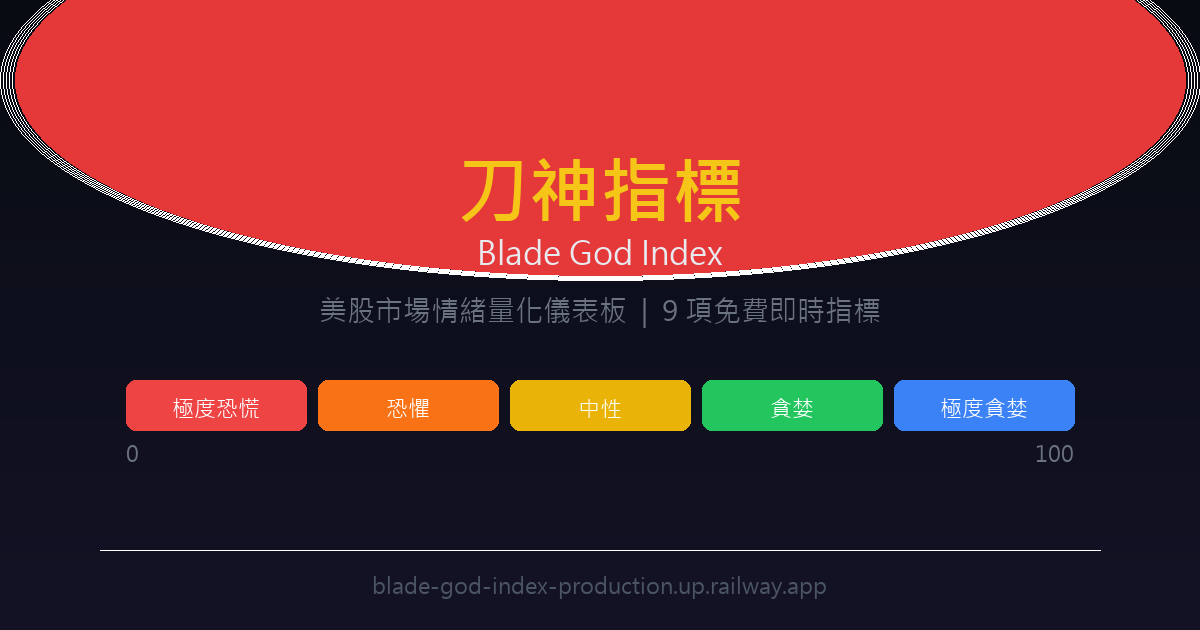
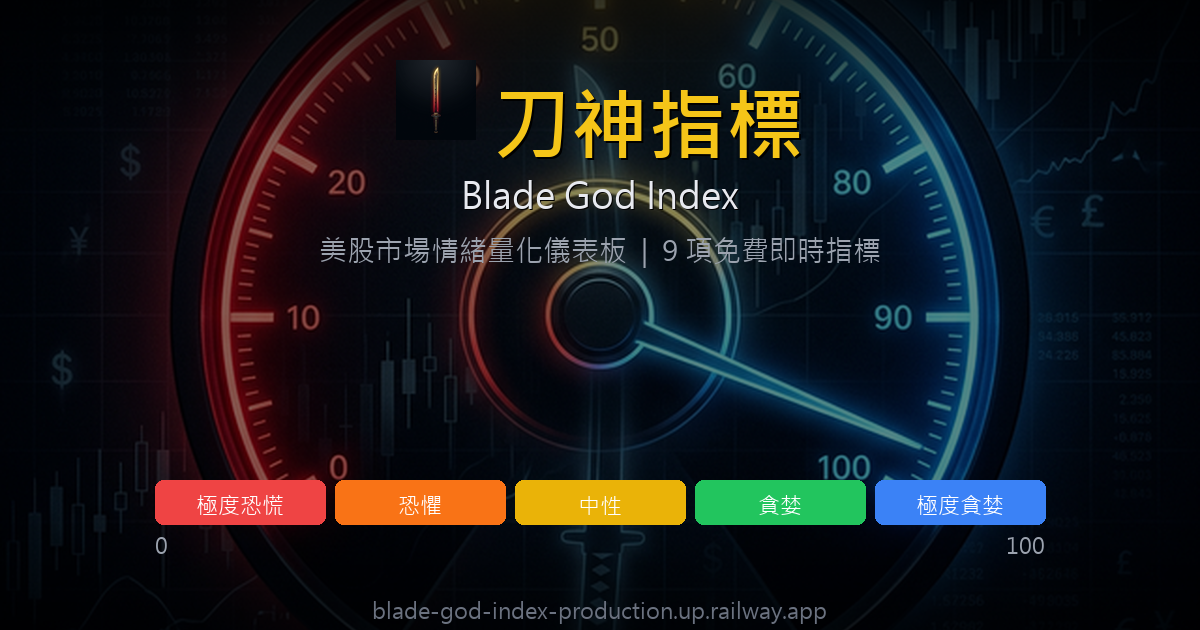
Redesign OG image using hero-bg.png as background
Replaced the plain gradient OG image with the original hero gauge
background for a much better social sharing preview on Facebook/LINE.

diff --git a/generate_og.py b/generate_og.py
@@ -1,0 +1,154 @@
+"""Generate OG image (1200x630) for Facebook/LINE/Twitter sharing.
+Uses hero-bg.png as background with text overlay.
+"""
+from PIL import Image, ImageDraw, ImageFont
+import os
+
+W, H = 1200, 630
+BASE_DIR = os.path.dirname(__file__)
+BG_PATH = os.path.join(BASE_DIR, "dashboard", "assets", "hero-bg.png")
+LOGO_PATH = os.path.join(BASE_DIR, "dashboard", "assets", "logo.png")
+OUT = os.path.join(BASE_DIR, "dashboard", "assets", "og.png")
+
+# Load hero-bg.png and resize/crop to 1200x630
+bg = Image.open(BG_PATH).convert("RGBA")
+bg_w, bg_h = bg.size
+
+# Scale to cover 1200x630, then center-crop
+scale = max(W / bg_w, H / bg_h)
+new_w, new_h = int(bg_w * scale), int(bg_h * scale)
+bg = bg.resize((new_w, new_h), Image.LANCZOS)
+left = (new_w - W) // 2
+top = (new_h - H) // 2
+bg = bg.crop((left, top, left + W, top + H))
+
+# Darken slightly for text readability
+img = Image.new("RGBA", (W, H), (0, 0, 0, 0))
+img.paste(bg, (0, 0))
+
+# Add dark overlay for text contrast
+overlay = Image.new("RGBA", (W, H), (0, 0, 0, 120))
+img = Image.alpha_composite(img, overlay)
+
+# Add gradient overlay: darker at top and bottom for text areas
+gradient = Image.new("RGBA", (W, H), (0, 0, 0, 0))
+grad_draw = ImageDraw.Draw(gradient)
+for y in range(150):
+    alpha = int(160 * (1 - y / 150))
+    grad_draw.line([(0, y), (W, y)], fill=(0, 0, 0, alpha))
+for y in range(H - 120, H):
+    alpha = int(140 * ((y - (H - 120)) / 120))
+    grad_draw.line([(0, y), (W, y)], fill=(0, 0, 0, alpha))
+img = Image.alpha_composite(img, gradient)
+
+# Convert to RGB for drawing text
+img = img.convert("RGB")
+draw = ImageDraw.Draw(img)
+
+
+# Try to load a nice font, fall back to default
+def get_font(size, bold=False):
+    candidates = [
+        "C:/Windows/Fonts/msjhbd.ttc",   # Microsoft JhengHei Bold
+        "C:/Windows/Fonts/msjh.ttc",      # Microsoft JhengHei
+        "C:/Windows/Fonts/msyh.ttc",      # Microsoft YaHei
+        "C:/Windows/Fonts/arial.ttf",
+    ]
+    if not bold:
+        candidates = [c.replace("bd.", ".") for c in candidates] + candidates
+    for f in candidates:
+        if os.path.exists(f):
+            try:
+                return ImageFont.truetype(f, size)
+            except Exception:
+                continue
+    return ImageFont.load_default()
+
+
+font_title = get_font(78, bold=True)
+font_sub = get_font(36)
+font_en = get_font(28)
+font_tag = get_font(22)
+
+# Logo + Title centered
+logo = None
+if os.path.exists(LOGO_PATH):
+    logo = Image.open(LOGO_PATH).convert("RGBA")
+    logo = logo.resize((80, 80), Image.LANCZOS)
+
+title = "刀神指標"
+bbox = draw.textbbox((0, 0), title, font=font_title)
+tw = bbox[2] - bbox[0]
+
+if logo:
+    logo_gap = 16
+    total_w = 80 + logo_gap + tw
+    logo_x = (W - total_w) // 2
+    title_x = logo_x + 80 + logo_gap
+    # Paste logo
+    img.paste(logo, (logo_x, 60), logo)
+    draw = ImageDraw.Draw(img)  # refresh draw after paste
+else:
+    title_x = (W - tw) // 2
+
+# Title with subtle shadow
+draw.text((title_x + 2, 72), title, fill="#000000", font=font_title)
+draw.text((title_x, 70), title, fill="#f5c518", font=font_title)
+
+# English subtitle
+sub_en = "Blade God Index"
+bbox2 = draw.textbbox((0, 0), sub_en, font=font_sub)
+sw = bbox2[2] - bbox2[0]
+draw.text(((W - sw) // 2 + 1, 171), sub_en, fill="#000000", font=font_sub)
+draw.text(((W - sw) // 2, 170), sub_en, fill="#e8eaf0", font=font_sub)
+
+# Tagline
+tagline = "美股市場情緒量化儀表板  |  9 項免費即時指標"
+bbox3 = draw.textbbox((0, 0), tagline, font=font_en)
+tgw = bbox3[2] - bbox3[0]
+draw.text(((W - tgw) // 2, 230), tagline, fill="#9ca3af", font=font_en)
+
+# Zone bar (colored rectangles) — positioned lower
+bar_y = 480
+bar_h = 44
+zones = [
+    ("#ef4444", "極度恐慌"),
+    ("#f97316", "恐懼"),
+    ("#eab308", "中性"),
+    ("#22c55e", "貪婪"),
+    ("#3b82f6", "極度貪婪"),
+]
+bar_w = 170
+bar_gap = 10
+total_bar = len(zones) * bar_w + (len(zones) - 1) * bar_gap
+bar_x = (W - total_bar) // 2
+
+for i, (color, label) in enumerate(zones):
+    x = bar_x + i * (bar_w + bar_gap)
+    r = int(color[1:3], 16)
+    g = int(color[3:5], 16)
+    b = int(color[5:7], 16)
+    # Semi-transparent effect via slightly darker fill
+    draw.rounded_rectangle([x, bar_y, x + bar_w, bar_y + bar_h], radius=8,
+                           fill=(r, g, b))
+    lbbox = draw.textbbox((0, 0), label, font=font_tag)
+    lw = lbbox[2] - lbbox[0]
+    lh = lbbox[3] - lbbox[1]
+    draw.text((x + (bar_w - lw) // 2, bar_y + (bar_h - lh) // 2 - 2),
+              label, fill="#ffffff", font=font_tag)
+
+# Score range labels
+draw.text((bar_x, bar_y + bar_h + 6), "0", fill="#9ca3af", font=font_tag)
+end_label = "100"
+ebbox = draw.textbbox((0, 0), end_label, font=font_tag)
+draw.text((bar_x + total_bar - (ebbox[2] - ebbox[0]), bar_y + bar_h + 6),
+          end_label, fill="#9ca3af", font=font_tag)
+
+# Bottom URL
+url = "blade-god-index-production.up.railway.app"
+ubbox = draw.textbbox((0, 0), url, font=font_tag)
+uw = ubbox[2] - ubbox[0]
+draw.text(((W - uw) // 2, H - 35), url, fill="#6b7280", font=font_tag)
+
+img.save(OUT, "PNG", quality=95)
+print(f"OG image saved: {OUT} ({os.path.getsize(OUT) // 1024} KB)")
